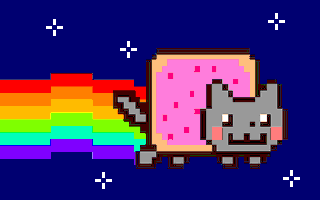
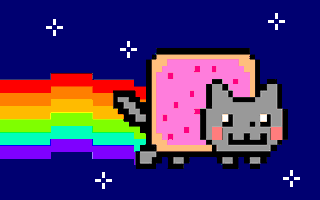
Much better dark response

diff --git a/nyan256.py b/nyan256.py
@@ -33,8 +33,8 @@ def v_(x): #Index mapping of lightness
 #Begin image proccessing
 #=========================
 img_bgr = cv2.imread('test.png')
-#plt.imshow(cv2.cvtColor(img_bgr, cv2.COLOR_BGR2RGB))
-#plt.show()
+#img_blur = cv2.GaussianBlur(img_bgr, (3, 3), 0)
+
 print(img_bgr.shape)
 
 img_hsv = cv2.cvtColor(img_bgr, cv2.COLOR_BGR2HSV).astype(int)
@@ -44,7 +44,7 @@ grayscale_threshold = 40
 #Convert to index of vga color plate in HSV color space
 for i,row in enumerate(img_hsv):
     for j,v in enumerate(row):
-        if(v[1]<=grayscale_threshold): #grayscale
+        if(v[1]<=grayscale_threshold or v[2]<=grayscale_threshold): #grayscale
             img_hsv[i][j] = np.array([512,512,round(v[2]/17)])
         else:
             img_hsv[i][j] = np.array([h_[v[0]], s_(v[1]), v_(v[2])])

diff --git a/README.MD b/README.MD
@@ -6,9 +6,9 @@ Convert your image into VGA256 color plate and generate binarary file which can 
 Original image:  
 ![nyannnnn](https://i.imgur.com/nvvUT22.png)  
 Converted image:  
-![nyyyyyan](https://i.imgur.com/orxByR7.png)  
+![nyyyyyan](https://github.com/ifTNT/nyan256/raw/master/output.png)  
 Disply in dosbox:  (use [MODE13H](https://github.com/ifTNT/MODE13H))  
-![anny](https://i.imgur.com/T72bqaw.png)  
+![anny](https://github.com/ifTNT/nyan256/raw/master/dosbox.png)  
 
 **With generated pixel-by-pixel binary file**
 
